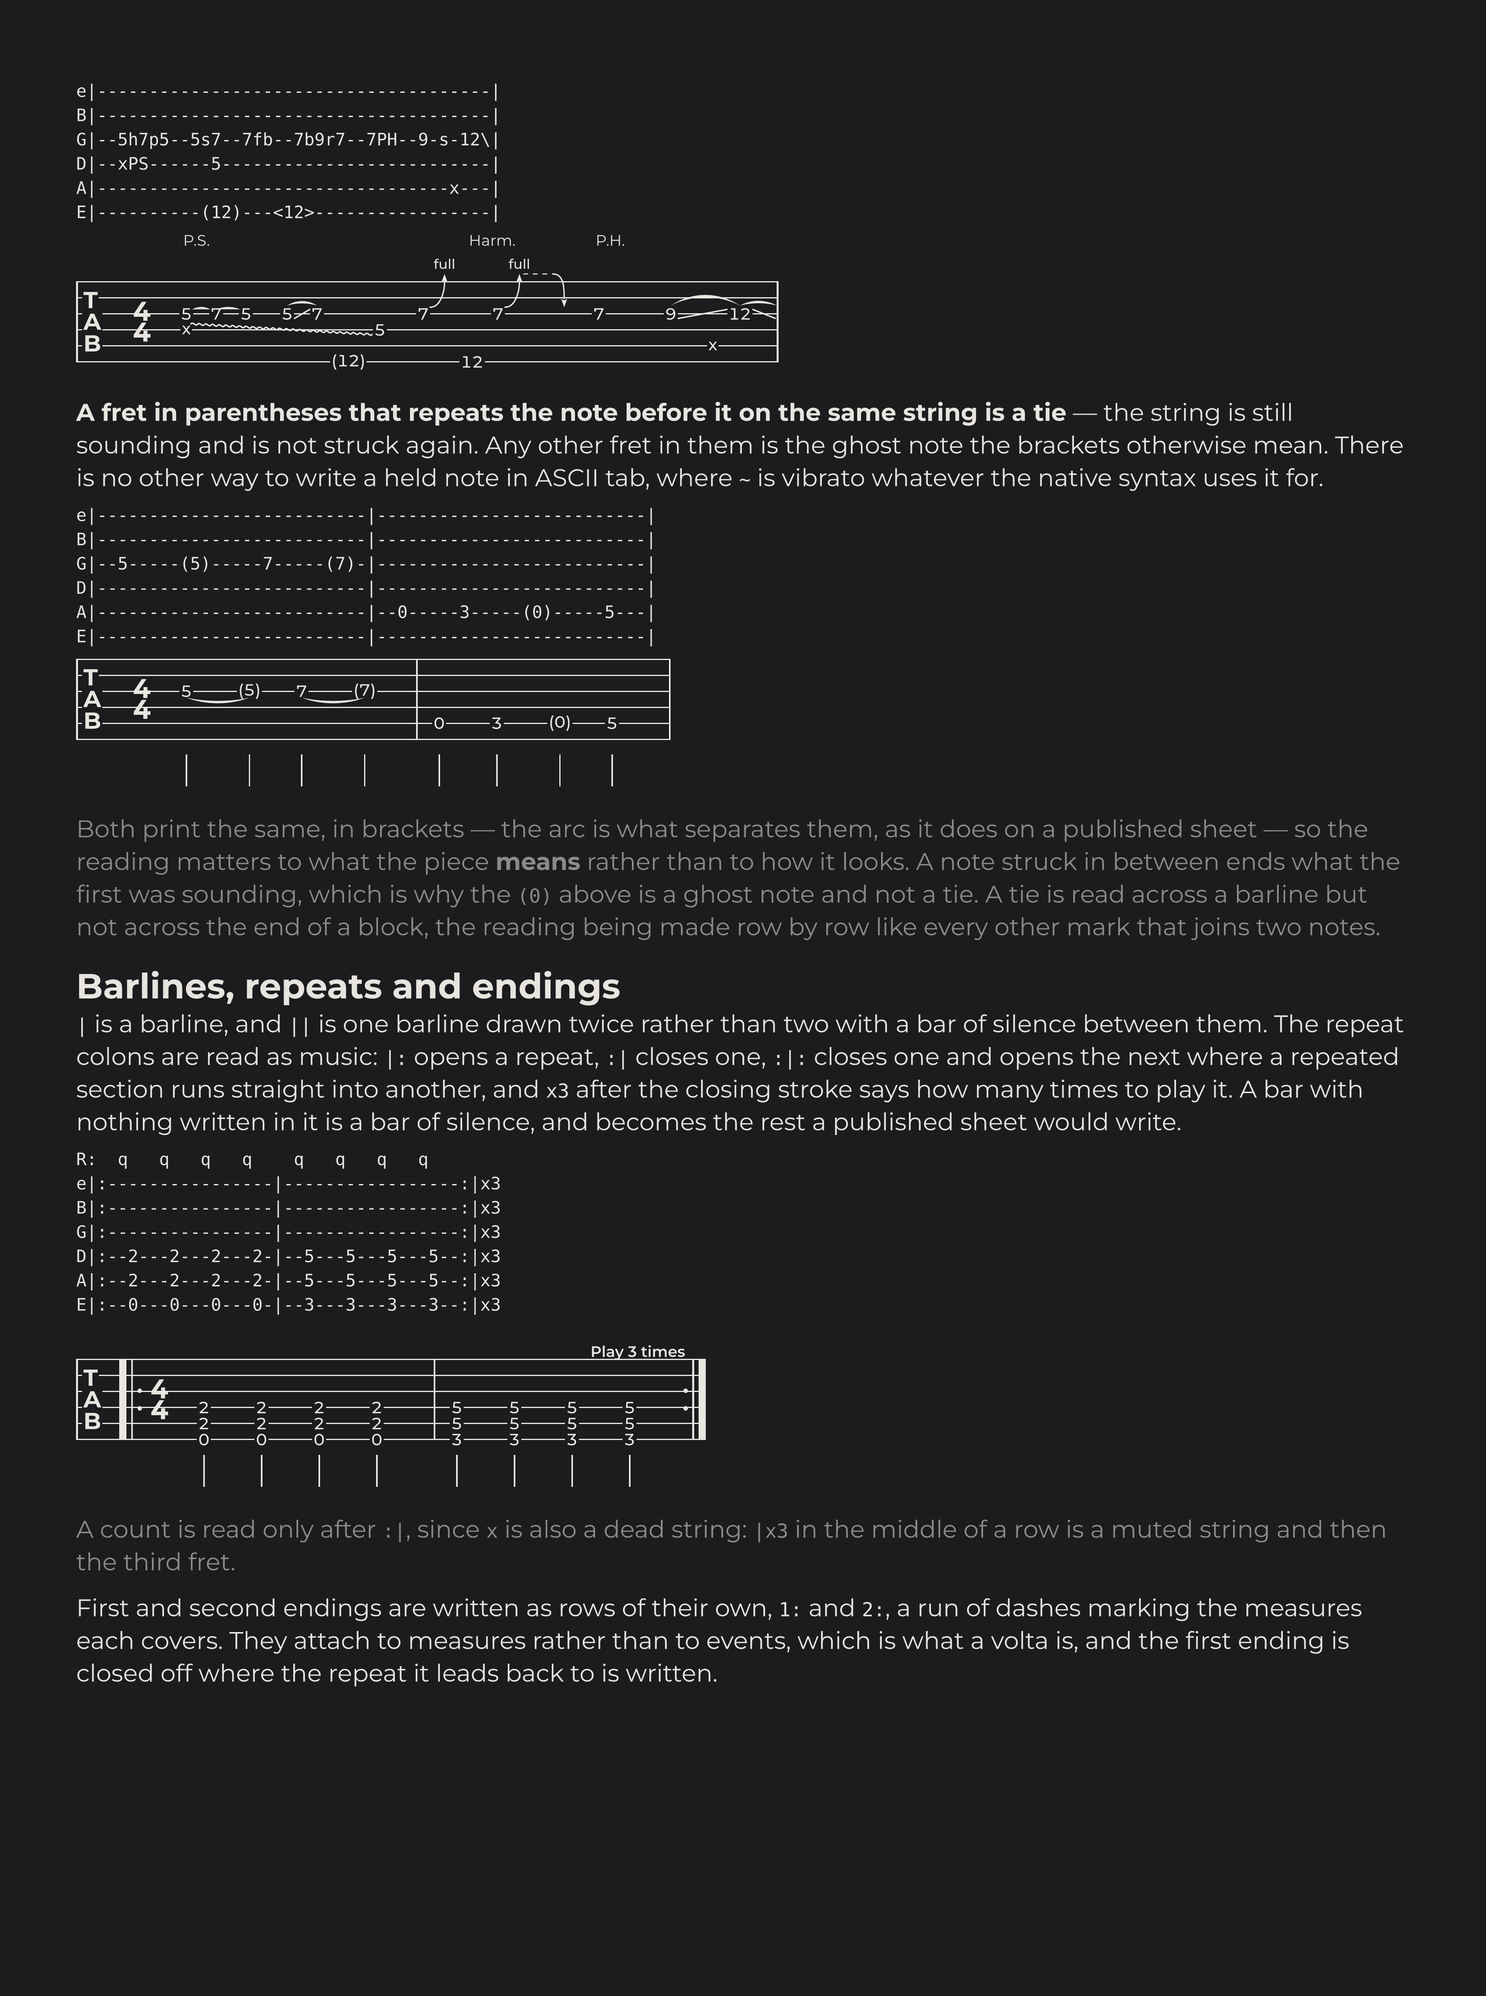
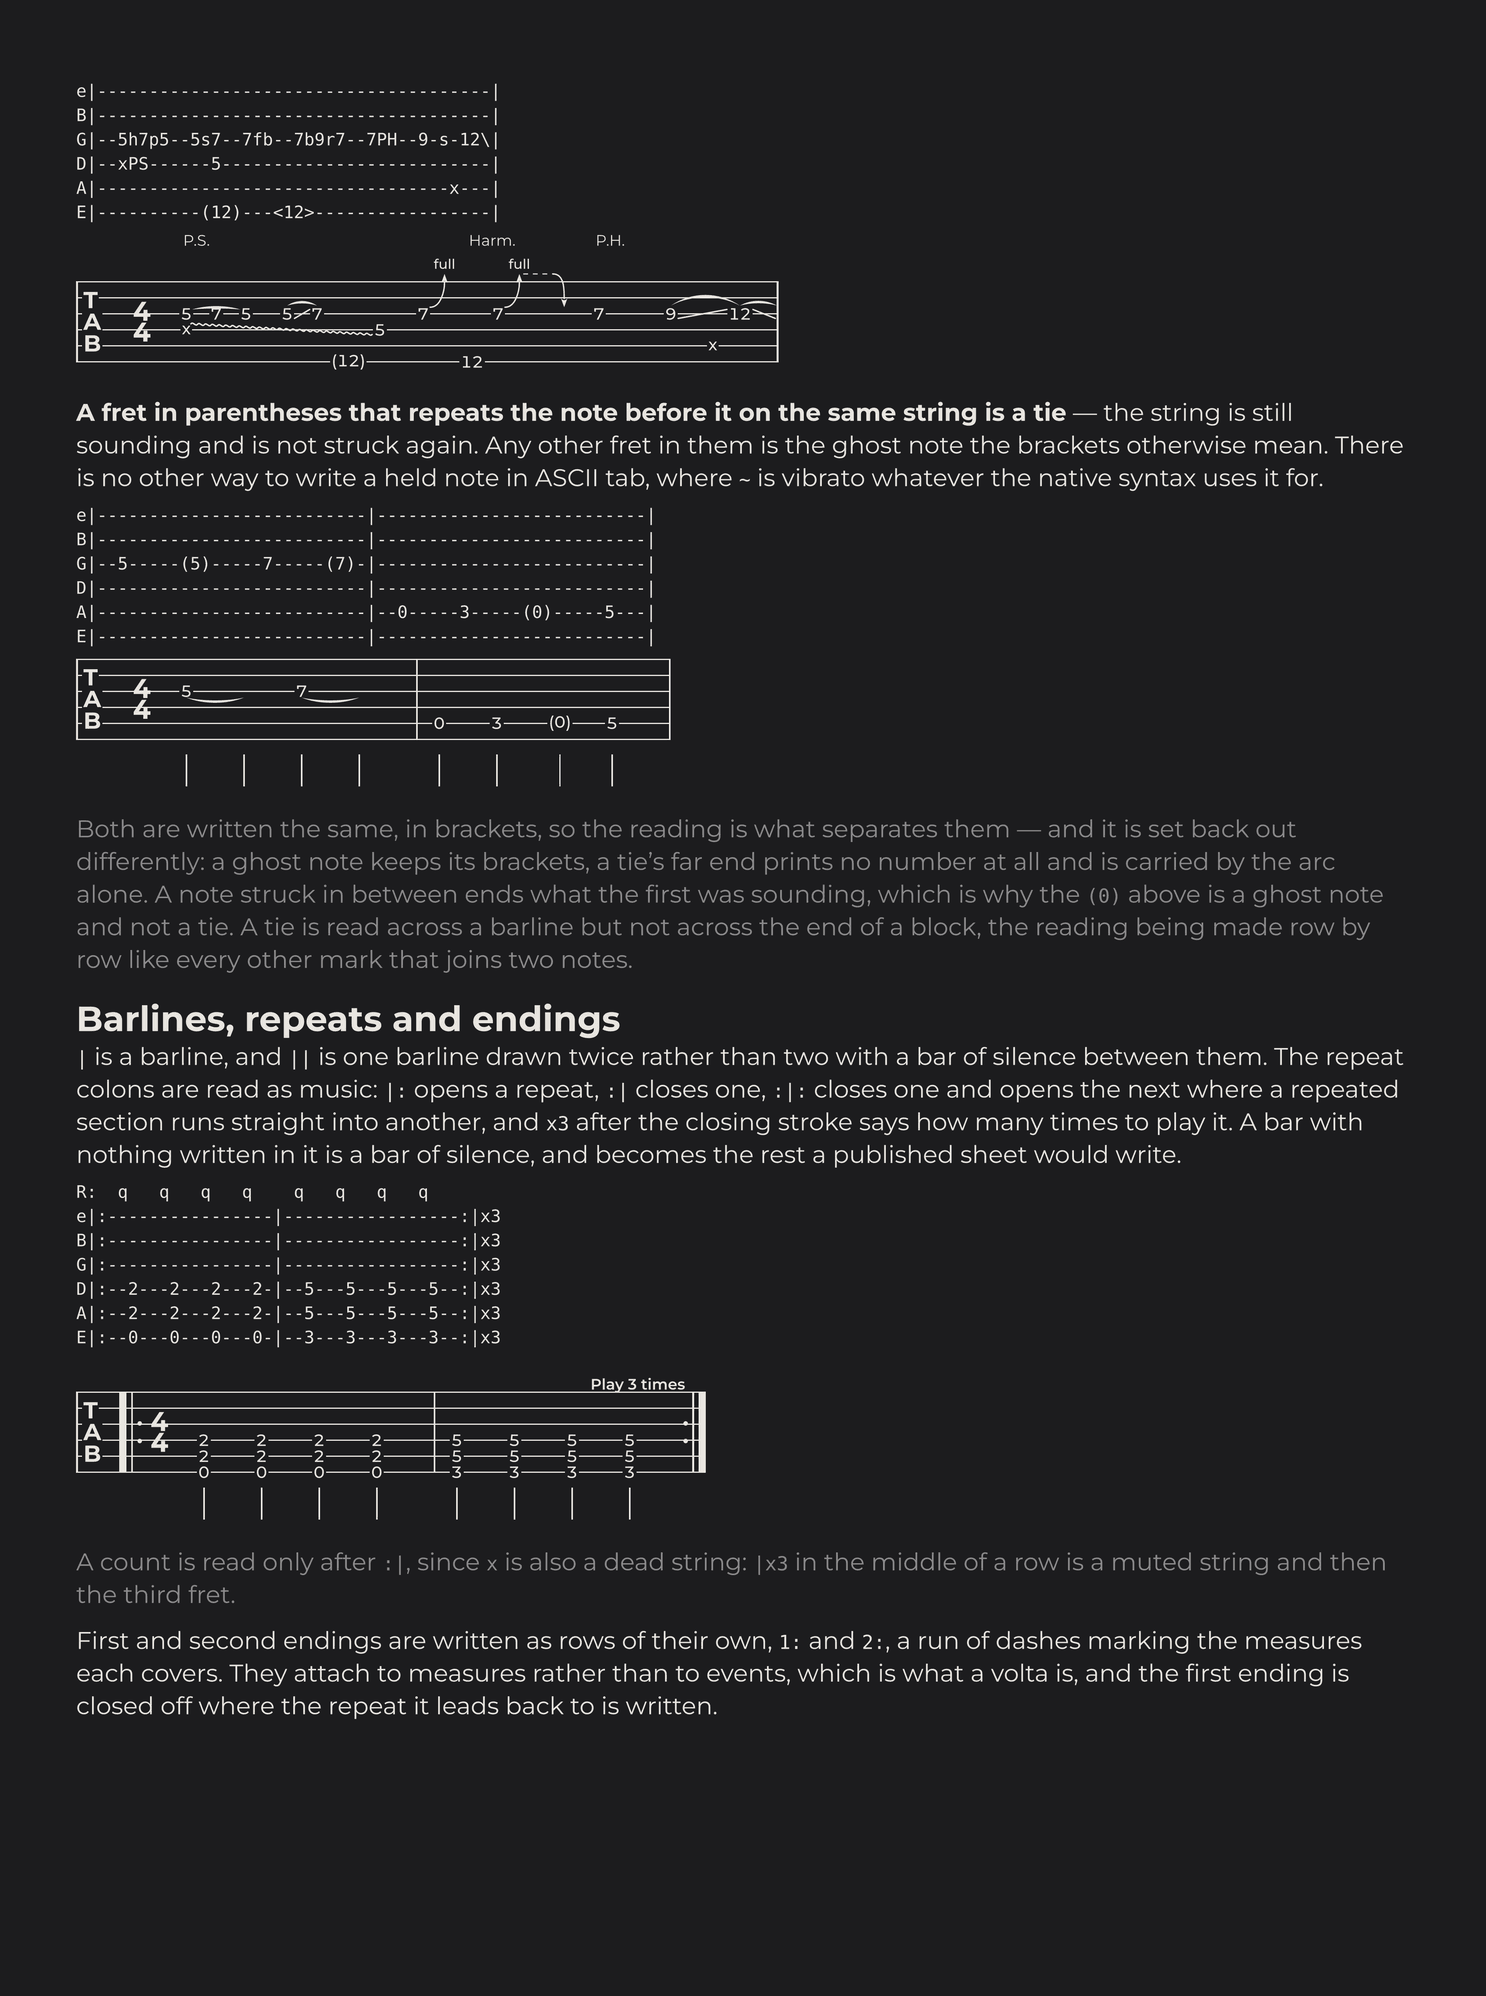
Print no number at a tie's far end, and one slur over a legato run
The far end of a tie was set in parentheses, which is exactly how a ghost
note is set — so two marks meaning opposite things (not struck at all, and
struck faintly) were one picture, with only the arc under it to tell them
apart. Hal Leonard can afford that, having a notation staff carrying the
tie; a tab staff alone cannot. Songsterr, already the reference for how
ties are drawn here and for the same reason, prints nothing and lets the
arc carry it. The note keeps its slot and its value in the rhythm lane and
still claims the width of the number it would have printed, that room
being what the arc is drawn in. `is-parenthesised` is now a ghost note's
business alone; `prints-fret` is the new predicate.

And a run of links now takes one slur over the whole of it rather than an
arc per pair. A hammer-on into a pull-off into a slide is one gesture;
pair by pair the arcs met at the notes between and came out as a row of
bumps, reading as several articulations where the music has one, each so
short on a fast run as to be nearly flat. Every connector that can carry a
slur names the joint it leaves and the joint it arrives at, so a run is
followed from one's `to` to the next one's `from` rather than guessed from
the geometry, and `overflow-above` reserves for the whole run since the
apex grows with the span. A shift slide ends a run, its target being
picked again, and a pick scrape joins none, drawing its wave and no arc.
[…]

Changed region(s): [[0.031, 0.4038, 0.9287, 0.8697]]

diff --git a/SPEC.md b/SPEC.md
@@ -304,10 +304,11 @@ E|--------3--------|-----------------|
   a tie**, and any other fret in them is a ghost note. There is no other way to
   write a held note in ASCII tab: `~` is vibrato there, whatever the native
   syntax uses it for, and the convention that survives is to set the note that is
-  not struck again in brackets — which is also how this package prints the far
-  end of a tie, so what it writes reads back. The two print alike either way, the
-  arc being what separates them, so the reading only matters to the model; but
-  reading it wrong turns a note held over into a second strike.
+  not struck again in brackets. The two print alike *in the source*, so the
+  reading is what separates them; reading it wrong turns a note held over into a
+  second strike. Set again the two no longer look alike, since a tie's far end is
+  not printed at all — so a sheet read in and set back out has lost the brackets
+  and kept the arc, which says the same thing.
 
   The tie is attached to the note the string is held *from*, which is where the
   native syntax writes it and where `mark-tie-targets` starts. A note struck in
@@ -745,13 +746,26 @@ Looking good is a stated goal, so it is specified as testable requirements.
    wider gap. Fret numbers are set with tabular figures so that a bar mixing `0`
    and `12` keeps its columns straight.
 
-18. **The far end of a tie is set in parentheses.** `~` is written on the note
+18. **The far end of a tie prints no fret number.** `~` is written on the note
    that starts the tie, so the note it runs into knows nothing about it; a
    forward pass over the piece marks it. Without that, a note held across eight
-   bars reads as eight separate strikes. A ghost note prints identically and
-   means the opposite — struck faintly rather than not struck at all — and the
-   arc is what separates the two, which is the same ambiguity the published
-   sheets carry. A note that is both still gets exactly one pair.
+   bars reads as eight separate strikes. Songsterr — the reference here, since it
+   too sets tablature with no notation staff beside it — draws the arc alone and
+   leaves the number off, and the arc is then the whole of what says the string
+   is still sounding. Hal Leonard parenthesises it instead, but it has a staff
+   carrying the tie and can afford the redundancy; alone on a tab staff a
+   bracketed digit reads as a second, quieter attack, which is exactly what a
+   ghost note is — so printed alike the two were one picture meaning opposite
+   things. The event keeps its slot and its value in the rhythm lane either way:
+   only the digit goes.
+
+   **A run of links takes one slur**, not an arc per pair. A hammer-on into a
+   pull-off into a slide is one gesture, and pair by pair the arcs meet at the
+   notes between and come out as a row of bumps — several articulations where the
+   music has one. A shift slide ends a run rather than continuing it, its target
+   being picked again, and so does a pick scrape, which draws its wave and no arc
+   at all. The lines are untouched: a slide still draws its own diagonal between
+   its own two numbers, there being nothing about the run one long one could say.
 19. **A link comes in two forms, and the source picks between them.** A
    hammer-on, pull-off or slide written with a target fret — `5/3h7` — prints
    that fret beside its own number, the two sharing one note value, which is how

diff --git a/CHANGELOG.md b/CHANGELOG.md
@@ -40,6 +40,33 @@
   verse is now a *held* note rather than nothing at all, which is what makes the
   two tellable apart — an unsung note is still `none`.
 
+### Changed
+
+- **The far end of a tie prints no fret number.** It used to be set in
+  parentheses, which is exactly how a ghost note is set — so the two, meaning
+  opposite things, were one picture and only the arc under it told them apart.
+  Hal Leonard can afford that, having a notation staff carrying the tie; a tab
+  staff alone cannot, and a bracketed digit there reads as a second, quieter
+  attack. Songsterr, which is the reference for how ties are drawn here for the
+  same reason, prints nothing and lets the arc carry it. The note is otherwise
+  unchanged: it keeps its slot and its value in the rhythm lane, and it still
+  claims the width of the number it would have printed, that room being what the
+  arc is drawn in — measured at nothing, a held thirty-second is spaced by its
+  duration alone and the tie has nowhere to arch. `model.is-parenthesised` is now
+  a ghost note's business alone, and `model.prints-fret` is the new predicate.
+
+  ASCII tab is read as before — `-5-(5)-` is still a tie and `-5-7-(5)-` still a
+  ghost note — so a sheet read in and set back out comes back with the brackets
+  gone and the arc in their place, saying the same thing.
+- **A run of links takes one slur** over the whole of it rather than an arc per
+  pair. A hammer-on into a pull-off into a slide is one gesture; drawn pair by
+  pair the arcs met at the notes between and came out as a row of bumps, reading
+  as several articulations where the music has one — and on a fast run each was
+  so short as to be nearly flat. A shift slide ends a run, its target being
+  picked again, and a pick scrape joins none, drawing its wave and no arc. The
+  lines are untouched: a slide still draws its own diagonal between its own two
+  numbers.
+
 ### Fixed
 
 - **A word the system break cuts in two keeps its hyphen**, set at the end of the
